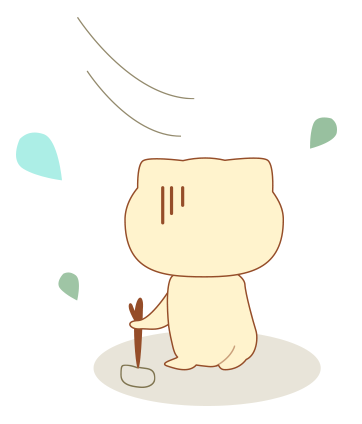
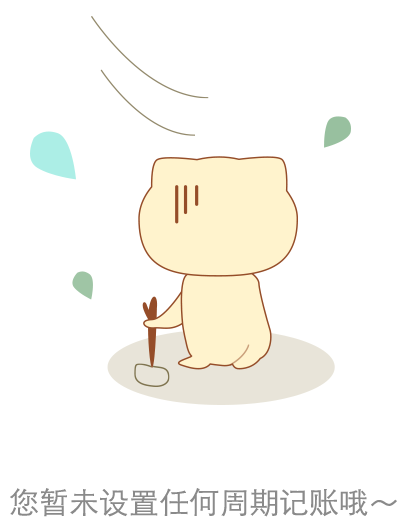
周期页面无记录修改

diff --git a/SuiShouJi/Module/More/MoreHome/ViewController/SSJCircleChargeSettingViewController.m b/SuiShouJi/Module/More/MoreHome/ViewController/SSJCircleChargeSettingViewController.m
@@ -77,13 +77,10 @@
     [self.items removeObjectAtIndex:indexPath.section];
     [self.tableView deleteSections:[NSIndexSet indexSetWithIndex:indexPath.section] withRowAnimation:UITableViewRowAnimationRight];
     [self deleteConfigWithConfigId:item.configId];
-//    if (self.items.count == 0) {
-//        self.tableView.tableHeaderView = self.nodataView;
-//    }else{
-//        self.tableView.tableHeaderView = [[UIView alloc]initWithFrame:CGRectZero];
-//    }
-
-    [self.tableView reloadData];
+    if (self.items.count == 0) {
+        [self.tableView ssj_showWatermarkWithImageName:@"zhouqi_none" animated:YES target:self action:nil];
+        
+    }    [self.tableView reloadData];
 }
 
 - (UITableViewCell *)tableView:(UITableView *)tableView cellForRowAtIndexPath:(NSIndexPath *)indexPath {
@@ -139,11 +136,10 @@
         }
         dispatch_async(dispatch_get_main_queue(), ^(){
             weakSelf.items = [[NSMutableArray alloc]initWithArray:tempArray];
-//            if (weakSelf.items.count == 0) {
-//                weakSelf.tableView.tableHeaderView = weakSelf.nodataView;
-//            }else{
-//                weakSelf.tableView.tableHeaderView = [[UIView alloc]initWithFrame:CGRectZero];
-//            }
+            if (self.items.count == 0) {
+                [self.tableView ssj_showWatermarkWithImageName:@"zhouqi_none" animated:YES target:self action:nil];
+
+            }
             [weakSelf.tableView ssj_hideLoadingIndicator];
             [weakSelf.tableView reloadData];
         });
